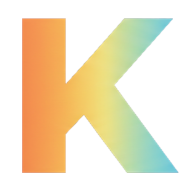
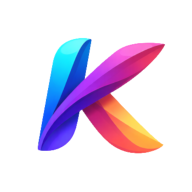
chore: nuevos iconos, iconos ?v=4, v0.6.12

diff --git a/index.html b/index.html
@@ -7,9 +7,9 @@
     <meta name="theme-color" content="#0b0d12" />
     <title>Keepy</title>
     <link rel="manifest" href="./manifest.webmanifest" />
-    <link rel="icon" href="./icon-192.png?v=3" />
-    <link rel="apple-touch-icon" href="./icon-192.png?v=3" />
-    <link rel="stylesheet" href="./css/styles.css?v=0.6.11" />
+    <link rel="icon" href="./icon-192.png?v=4" />
+    <link rel="apple-touch-icon" href="./icon-192.png?v=4" />
+    <link rel="stylesheet" href="./css/styles.css?v=0.6.12" />
   </head>
   <body>
     <div class="app">
@@ -240,8 +240,8 @@
       </form>
     </dialog>
 
-    <script defer src="./js/utils.js?v=0.6.11"></script>
-    <script defer src="./js/storage.js?v=0.6.11"></script>
-    <script defer src="./js/main.js?v=0.6.11"></script>
+    <script defer src="./js/utils.js?v=0.6.12"></script>
+    <script defer src="./js/storage.js?v=0.6.12"></script>
+    <script defer src="./js/main.js?v=0.6.12"></script>
   </body>
 </html>

diff --git a/js/storage.js b/js/storage.js
@@ -3,7 +3,7 @@
 
   const STORAGE_KEY = "keepy:data:v1";
   const THEME_KEY = "keepy:theme";
-  const APP_VERSION = "0.6.11";
+  const APP_VERSION = "0.6.12";
   const SYNC_URL_KEY = "keepy:syncUrl";
 
   function defaultData() {
